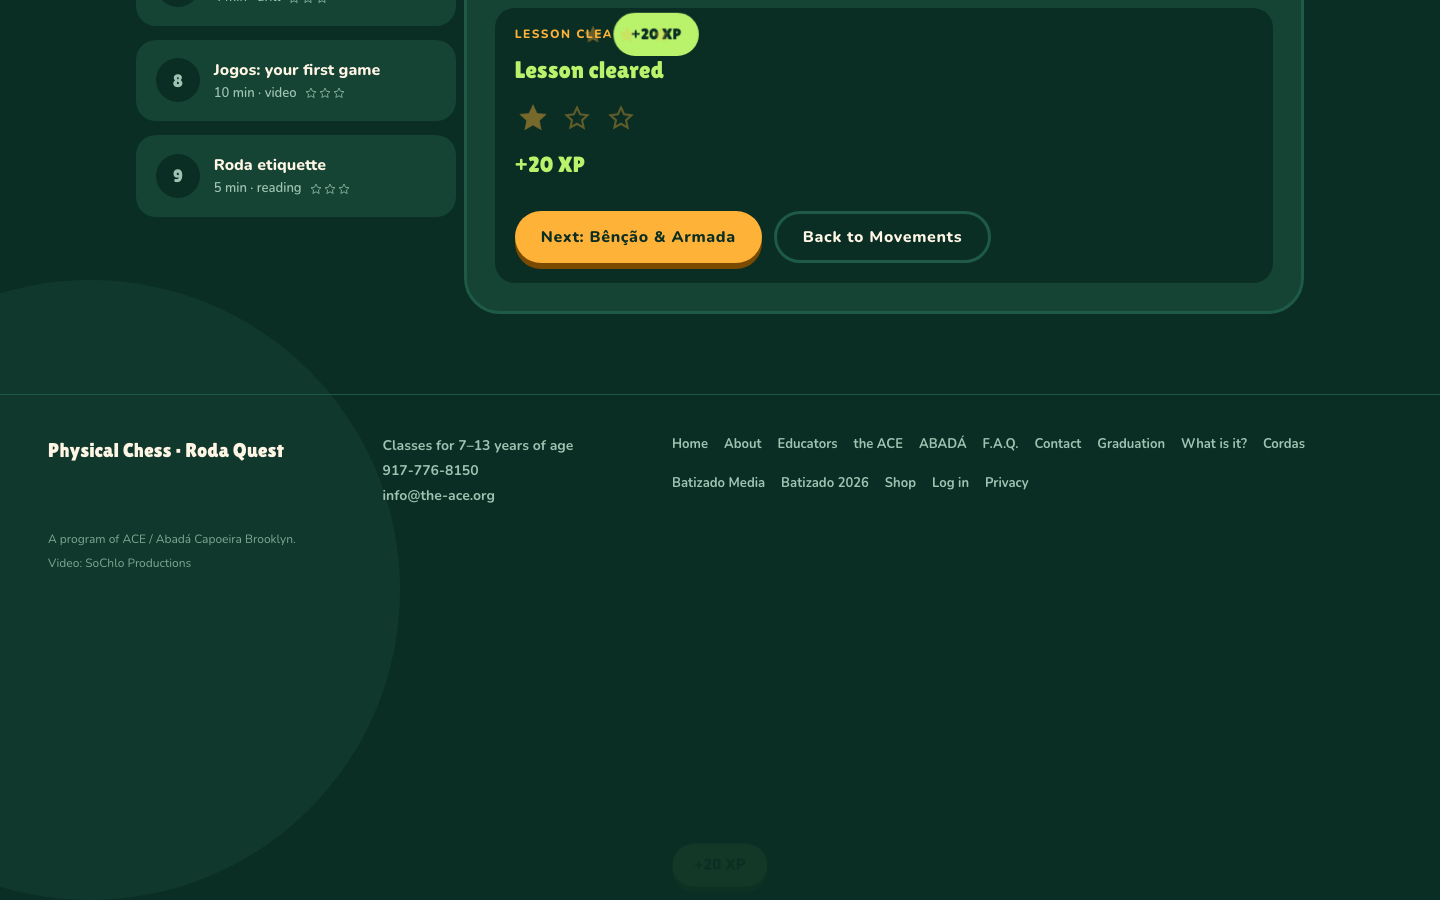
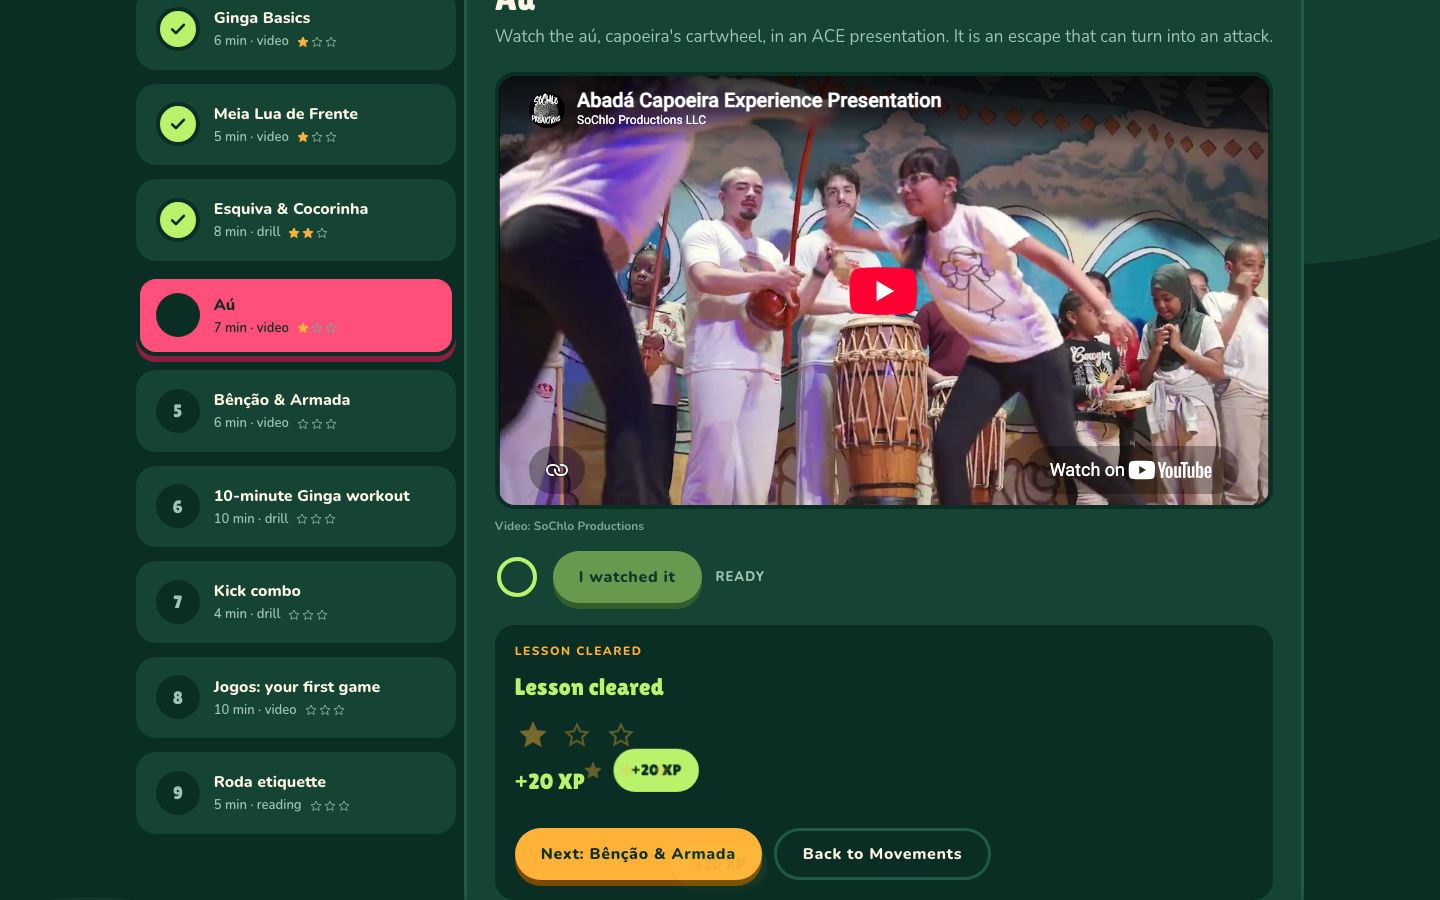
motion: reveal data-quest-enter elements injected after load (fixes blank Desafio/turma/report sections); route screenshot script

diff --git a/src/directions/quest/motion.js b/src/directions/quest/motion.js
@@ -29,13 +29,40 @@ function stagger(nodes, attr, delayStep, startDelay = 0) {
 }
 
 function initEntrance() {
-  const enterEls = Array.from(document.querySelectorAll('[data-quest-enter]'));
+  const enterEls = Array.from(document.querySelectorAll('[data-quest-enter]:not([data-quest-enter="true"])'));
   stagger(enterEls, 'data-quest-enter', 45, 20);
 
-  const nodeEls = Array.from(document.querySelectorAll('[data-quest-node]')).filter(
+  const nodeEls = Array.from(document.querySelectorAll('[data-quest-node]:not([data-quest-node="true"])')).filter(
     (el) => el.offsetParent !== null
   );
   stagger(nodeEls, 'data-quest-node', 60, 540);
+  observeInjectedEntrances();
+}
+
+// Screens render most of their content after the session loads, so elements
+// carrying data-quest-enter often arrive after the first entrance pass. Reveal
+// them as they land (short stagger) instead of leaving them at opacity 0.
+function observeInjectedEntrances() {
+  if (window.__questEnterObserver) return;
+  const pending = new Set();
+  let scheduled = false;
+  const flush = () => {
+    scheduled = false;
+    const els = Array.from(pending).filter((el) => el.isConnected && el.getAttribute('data-quest-enter') !== 'true');
+    pending.clear();
+    if (els.length) stagger(els, 'data-quest-enter', 35, 10);
+  };
+  const collect = (node) => {
+    if (!(node instanceof Element)) return;
+    if (node.hasAttribute('data-quest-enter')) pending.add(node);
+    node.querySelectorAll('[data-quest-enter]').forEach((el) => pending.add(el));
+  };
+  const obs = new MutationObserver((records) => {
+    for (const r of records) r.addedNodes.forEach(collect);
+    if (pending.size && !scheduled) { scheduled = true; requestAnimationFrame(flush); }
+  });
+  obs.observe(document.body, { childList: true, subtree: true });
+  window.__questEnterObserver = obs;
 }
 
 function initTrailDraw() {
